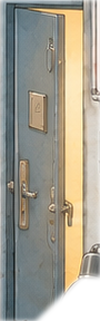
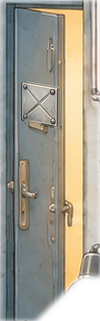
р.13 дневной короб (вариант В) + аудит Этап 1 (F01-F05)
Раунд 13 (дневная сирена, вариант В):
- st_util_door_open_day.png: короб сигнализации на дневной створке (drop-in 100x321)
- gen_scene: alarm-LED pos_day [1744,230]->[1730,388]; hs_alarm rect_day ->[1712,370,50,50]
- удалён CO st_siren_day (файл — мёртвый ассет, в релизную чистку)

Аудит Этап 1 (робастность):
- F01 ui.lua: защищённая загрузка сейва (pcall+валидация+.bak), ПРОДОЛЖИТЬ не падает
- F02 ui.lua: атомарная запись сейва (tmp->rename->.bak), version=3
- F03 main.lua: экран ошибки + crash.log, os.exit только в headless
- F04 ui.lua: fullscreen применяется при загрузке
- F05 gen_puzzles/puzzles.json: open_utility не потребляет handle (relic_yatagan не теряется)

Гейты: GATE1/GATE2 PASS, solver 52 шага victory=true, luajit-парсинг всех lua.
love-гейты — за автором на 11.5.

Claude-Session: https://claude.ai/code/session_01LyzTrcYh7MfjJZEHjjCjwM

Changed region(s): [[0.21, 0.2492, 0.63, 0.405]]

diff --git a/tools/gen_scene.py b/tools/gen_scene.py
@@ -83,7 +83,7 @@ A_hotspots = [
        name="Плакат по охране труда", cursor="zoom",
        rect_day=[1543, 236, 64, 58]),
     HS("hs_alarm", [1711, 376, 46, 48], goto="zoom_alarm", name="Сигнализация",
-       cursor="zoom", rect_day=[1716, 224, 50, 50]),
+       cursor="zoom", rect_day=[1712, 370, 50, 50]),   # (р.13) на короб дневной створки
     HS("hs_util_door", [1706, 285, 92, 320], node="open_utility",
        name="Дверь щитовой", hide_on=["utility_open"],
        rect_day=[1712, 278, 93, 332]),
@@ -143,7 +143,8 @@ A_cutouts = [
     # под тан-распредкоробкой, чистая от полотна/KPI/зон). Ночь: LED reader
     # на овал СКУД (1636,358), alarm на центр X-коробки (1734,399); зоны
     # hs_reader/hs_alarm ночь подвинуты на эти арт-объекты (был рассинхрон ~50px).
-    CO("cutouts/st_siren_day.png", [1719, 230], 0.070, z=16, day_only=True),
+    # (раунд 13) st_siren_day УБРАН: короб сигнализации запечён в дневном катауте
+    # открытой двери (st_util_door_open_day); дневной LED/зона сидят на нём.
     # (микрораунд 12) LED сигнализации разделены по состоянию двери щитовой.
     # Ночью X-короб сигнализации НАРИСОВАН на полотне двери и «уезжает» с
     # распахнутой створкой (катаут st_util_door_open). Поэтому:
@@ -151,17 +152,17 @@ A_cutouts = [
     #  (центр X ~1734,399) pos [1727,392]; прячем при utility_open.
     #  ОТКРЫТАЯ дверь — LED на уехавшем коробе. Ночь: центр X на распахнутой
     #  створке промерен = (1721,367) -> pos [1714,360]. День: дверь всегда
-    #  открыта (power_on=>utility_open), короб представлен настенной сиреной
-    #  st_siren_day, LED на её куполе pos_day [1744,230] (как в р.11).
+    #  открыта (power_on=>utility_open). Раунд 13: короб запечён в
+    #  st_util_door_open_day, центр (1737,395) -> pos_day [1730,388].
     # Состояние on/off — прежний флаг alarm_off (у обеих пар одинаково).
     CO("cutouts/st_led_alarm_on.png", [1727, 392], 0.24, z=25,
        hide_on=["alarm_off", "utility_open"]),
     CO("cutouts/st_led_alarm_off.png", [1727, 392], 0.24, z=25,
        show_on=["alarm_off"], hide_on=["utility_open"]),
     CO("cutouts/st_led_alarm_on.png", [1714, 360], 0.24, z=25,
-       show_on=["utility_open"], hide_on=["alarm_off"], pos_day=[1744, 230]),
+       show_on=["utility_open"], hide_on=["alarm_off"], pos_day=[1730, 388]),
     CO("cutouts/st_led_alarm_off.png", [1714, 360], 0.24, z=25,
-       show_on=["utility_open", "alarm_off"], pos_day=[1744, 230]),
+       show_on=["utility_open", "alarm_off"], pos_day=[1730, 388]),
     CO("cutouts/st_led_reader_off.png", [1628, 350], 0.28, z=25,
        hide_on=["power_on"], pos_day=[1655, 357]),
     CO("cutouts/st_led_reader_red.png", [1627, 350], 0.28, z=25,

diff --git a/tools/gen_puzzles.py b/tools/gen_puzzles.py
@@ -114,8 +114,9 @@ node("pry_drawer", "D0", "A", "action", ["ruler"], ["drawer_pried"], True)
 node("take_handle", "D0", "A", "pickup", ["drawer_pried"], ["handle"], True)
 node("search_drawer_again", "D0", "A", "pickup",
      ["drawer_pried", "handle"], ["relic_yatagan"], False, secret=True)
-node("open_utility", "D0", "A", "action", ["handle"], ["utility_open"], True,
-     consumes=["handle"])
+# (раунд 13 / аудит F05) handle НЕ потребляется: иначе открытие щитовой навсегда
+# лишает секретной реликвии relic_yatagan (search_drawer_again тоже требует handle).
+node("open_utility", "D0", "A", "action", ["handle"], ["utility_open"], True)
 
 # --- D1: пропуск (A<->B через вентиляцию)
 node("see_net", "D1", "B", "action", ["utility_open"], ["seen_net"], True)

diff --git a/CODEX_HANDOFF.md b/CODEX_HANDOFF.md
@@ -3,7 +3,7 @@
 ## Текущий статус
 - Ветка `master`, HEAD = `f607214` (+ этот файл и AGENTS.md коммитятся поверх), дерево чистое.
 - Последний СОБРАННЫЙ релиз — **2.0.4** (`dist/`, SHA-256 в BUILDLOG Фаза 6.4).
-- Несобранный **2.0.5-pre** в коде: раунды 4–11 правок. Сборка — только по команде автора «собирай».
+- Несобранный **2.0.5-pre** в коде: раунды 4–14 правок (вкл. р.13 — дневной короб на створке, вариант В; р.14 — аудит Этап 1: F01 защищённая загрузка, F02 атомарная запись, F03 экран ошибки+crash.log, F04 fullscreen при загрузке, F05 relic_yatagan не теряется). Сборка — только по команде автора «собирай».
 
 ## Что работает (проверено конвейером)
 - Полное прохождение: солвер 52 шага, гаунтлет 304 op / 69 шагов / 18 контрольных скринов, fuzz 3×25000 — PASS.
@@ -17,14 +17,14 @@
 - **Ночной рассинхрон reader/alarm — ВЫПРАВЛЕН (р.11)**: ночные LED и зоны hs_reader/hs_alarm посажены на арт (овал СКУД 1636,358; X-бокс 1734,399); LED уменьшены (reader 0.28, alarm 0.24). Открытый-ночной кадр 11 (X-бокс уезжал со створки, alarm-LED оставался на закрытой позиции) — ВЫПРАВЛЕН в р.12 по одобренному варианту «в»: отдельный alarm-LED show_on utility_open на уехавший короб (промер 1721,367 → pos [1714,360]); закрытые LED прячутся при utility_open; днём LED на настенной сирене (pos_day 1744,230). Дневная зона считывателя hs_reader rect_day пересажена на карта-ридер (центр 1663,362). См. QA_JOURNAL р.12. Прочие зоны правой трети (exit/intercom/door/shaft/poster) под старый ~50px рассинхрон НЕ трогались — вне scope р.11.
 - Музыка не прослушана на слух (headless): кроссфейды, стыки лупов, куски стингеров. Короткие лупы: bgm_night_b ≈26 с, layer_garland ≈6 с (мало реального аудио в исходниках — автор может перегенерить).
 - Дневная дверь щитовой распахнута шире ночной (авторский кадр).
-- `assets/audio/ambient.ogg` — мёртвый ассет, удалить релизным коммитом.
+- `assets/audio/ambient.ogg` и `assets/gfx/cutouts/st_siren_day.png` (мёртвый после р.13) — удалить релизным коммитом.
 - Зоны зумов промерялись поверхностно (контактным листом).
 
 ## Ключевые решения (не откатывать без автора)
 Вывеска VALTEC на титуле; полный отказ от мата; подсказки Предка только по кнопке; тёмная ночная подсобка (гейт B ослаблен до 8%); открытый ящик Иры виден только в зуме тумбы; «красная кнопка» из анимации пара удалена (был брак-кадр st_steam_c); эстетика юмора — LucasArts/«Красная бурда», «Аншлаг» — антиэталон.
 
 ## План
-1. ~~Ответ автора по ночным LED / кадр 11 → микрораунд~~ — СДЕЛАНО (р.12, вариант «в»).
+1. ~~Ночные LED/кадр 11 (р.12); дневной короб р.13 (вариант В); аудит Этап 1 F01–F05 (р.14)~~ — СДЕЛАНО. Осталось за автором: love-гейты р.13/р.14 на 11.5 (selftest/автоплей/fuzz/verify/letterbox/галерея), смок экрана ошибки F03 и робастности сейвов F01/F02.
 2. Прослушка музыки автором → возможные замены треков (пайплайн нарезки в tools/, уровни в QA_JOURNAL).
 3. По команде: полный DoD → сборка 2.0.5 (BUILDLOG Фаза 6.5, SHA-256, wine-гаунтлет).
 4. Кандидаты MIGRATION §5: катаут открытой дверцы щитка, инпейнт пустых тисков.
